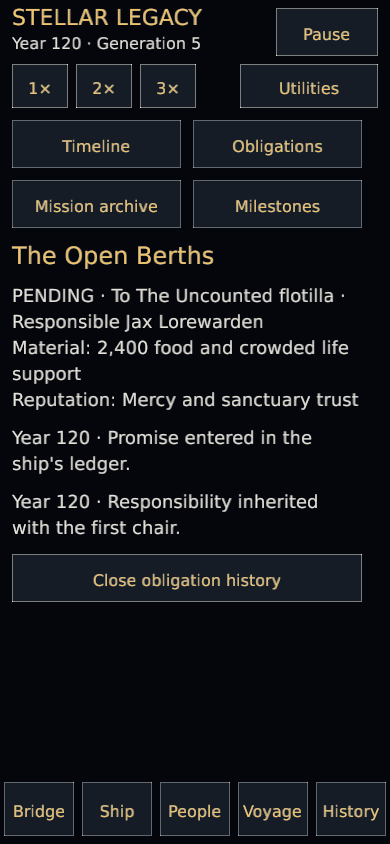
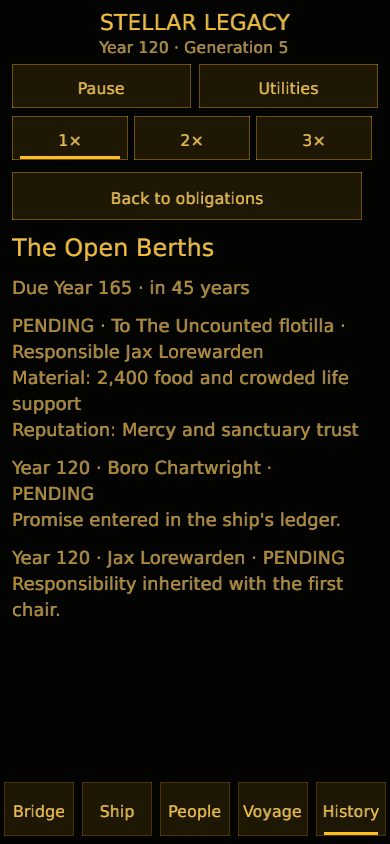
The ledger keeps its promises in view (compact obligation history)
Obligation details hid their return control below the history while section tabs
could not leave the selected detail. Put Back to obligations first, order active
deadlines ahead of closed duties, and explain empty lists and inherited entries.

Checked populated portrait captures, Clippy and the source-size gate. The default
publisher passed both packaged Windows rendering and real-browser WebGL smoke.

diff --git a/src/ui/mobile/history.rs b/src/ui/mobile/history.rs
@@ -1,14 +1,14 @@
 use super::*;
 pub(super) fn build(ctx: &GameplayCtx<'_>, f: &mut Form, section: &str) {
-    f.sections(&[
-        ("Timeline", ""),
-        ("Obligations", "obligations"),
-        ("Mission archive", "archive"),
-        ("Milestones", "milestones"),
-    ]);
     if let Some(id) = ctx.obligation_detail {
+        f.action(
+            "Back to obligations",
+            true,
+            UiAction::CloseObligationHistory,
+        );
         if let Some(o) = ctx.sim.obligations.iter().find(|o| o.id == id) {
             f.heading(&o.title);
+            f.text(&timing(o, ctx.sim.year()));
             f.text(&format!(
                 "{} · To {} · Responsible {}\nMaterial: {}\nReputation: {}",
                 o.status.label(),
@@ -18,16 +18,25 @@ pub(super) fn build(ctx: &GameplayCtx<'_>, f: &mut Form, section: &str) {
                 o.stakes.reputation
             ));
             for h in &o.history {
-                f.text(&format!("Year {} · {}", h.year, h.note));
+                f.text(&format!(
+                    "Year {} · {} · {}\n{}",
+                    h.year,
+                    h.captain,
+                    h.status.label(),
+                    h.note
+                ));
             }
-            f.action(
-                "Close obligation history",
-                true,
-                UiAction::CloseObligationHistory,
-            );
-            return;
+        } else {
+            f.text("This obligation is no longer available.");
         }
+        return;
     }
+    f.sections(&[
+        ("Timeline", ""),
+        ("Obligations", "obligations"),
+        ("Mission archive", "archive"),
+        ("Milestones", "milestones"),
+    ]);
     if let Some(index) = section
         .strip_prefix("record:")
         .and_then(|i| i.parse::<usize>().ok())
@@ -48,18 +57,47 @@ pub(super) fn build(ctx: &GameplayCtx<'_>, f: &mut Form, section: &str) {
     match section {
         "obligations" => {
             f.heading("Obligations");
-            for o in &ctx.sim.obligations {
+            if ctx.sim.obligations.is_empty() {
+                f.text("No obligations recorded. Promises and duties from your decisions will appear here with their deadlines and history.");
+                return;
+            }
+            let active = ctx
+                .sim
+                .obligations
+                .iter()
+                .filter(|o| o.status.is_active())
+                .count();
+            f.text(&format!(
+                "{active} active · {} resolved · {} due",
+                ctx.sim.obligations.len() - active,
+                ctx.sim.due_obligations().len()
+            ));
+            f.text("Active duties appear first. Read an obligation's history to see earlier promises and changes of responsibility.");
+            let mut obligations = ctx.sim.obligations.iter().collect::<Vec<_>>();
+            obligations.sort_by_key(|o| {
+                (
+                    !o.status.is_active(),
+                    o.due_year.unwrap_or(u32::MAX),
+                    o.created_year,
+                )
+            });
+            for o in obligations {
                 f.heading(&o.title);
+                f.text(&timing(o, ctx.sim.year()));
                 f.text(&format!(
-                    "{} · To {}\nResponsible {} · Due {}\nMaterial: {}\nReputation: {}",
+                    "{} · To {}\nResponsible {}\nMaterial: {}\nReputation: {}",
                     o.status.label(),
                     o.beneficiary,
                     o.responsible,
-                    o.due_year
-                        .map_or("open".to_owned(), |y| format!("Year {y}")),
                     o.stakes.material,
                     o.stakes.reputation
                 ));
+                if o.successions_crossed > 0 {
+                    f.text(&format!(
+                        "Inherited across {} successions",
+                        o.successions_crossed
+                    ));
+                }
                 f.action(
                     "Read full obligation history",
                     true,
@@ -104,5 +142,20 @@ pub(super) fn build(ctx: &GameplayCtx<'_>, f: &mut Form, section: &str) {
                 f.text(&format!("Year {} · {}", e.year, e.text));
             }
         }
+    }
+}
+
+fn timing(o: &crate::state::sim::Obligation, year: u32) -> String {
+    if !o.status.is_active() {
+        return format!(
+            "Closed in Year {}",
+            o.history.last().map_or(o.created_year, |h| h.year)
+        );
+    }
+    match o.due_year {
+        None => "No fixed deadline".to_owned(),
+        Some(due) if due < year => format!("Due Year {due} · {} years overdue", year - due),
+        Some(due) if due == year => format!("Due now · Year {due}"),
+        Some(due) => format!("Due Year {due} · in {} years", due - year),
     }
 }

diff --git a/gdd.md b/gdd.md
@@ -275,6 +275,9 @@ group's description before its action.
 Council uses a shared scrolling brief across display sizes. Delegation controls
 name both the current mode and the next action, followed by captain, succession,
 staffing and legacy-risk context. No risk factors are clipped below the panel.
+Compact obligation lists put active deadlines first and distinguish due, overdue
+and closed duties. Full histories start with Back to obligations and show the
+captain and status of each entry; empty lists explain what belongs there.
 Utilities contains Save game, Help, Display & sound and Return to menu.
 Pause/Resume and speed controls remain reachable above blocking decisions.
 Responsive and phone navigation underline the active destination and section;
